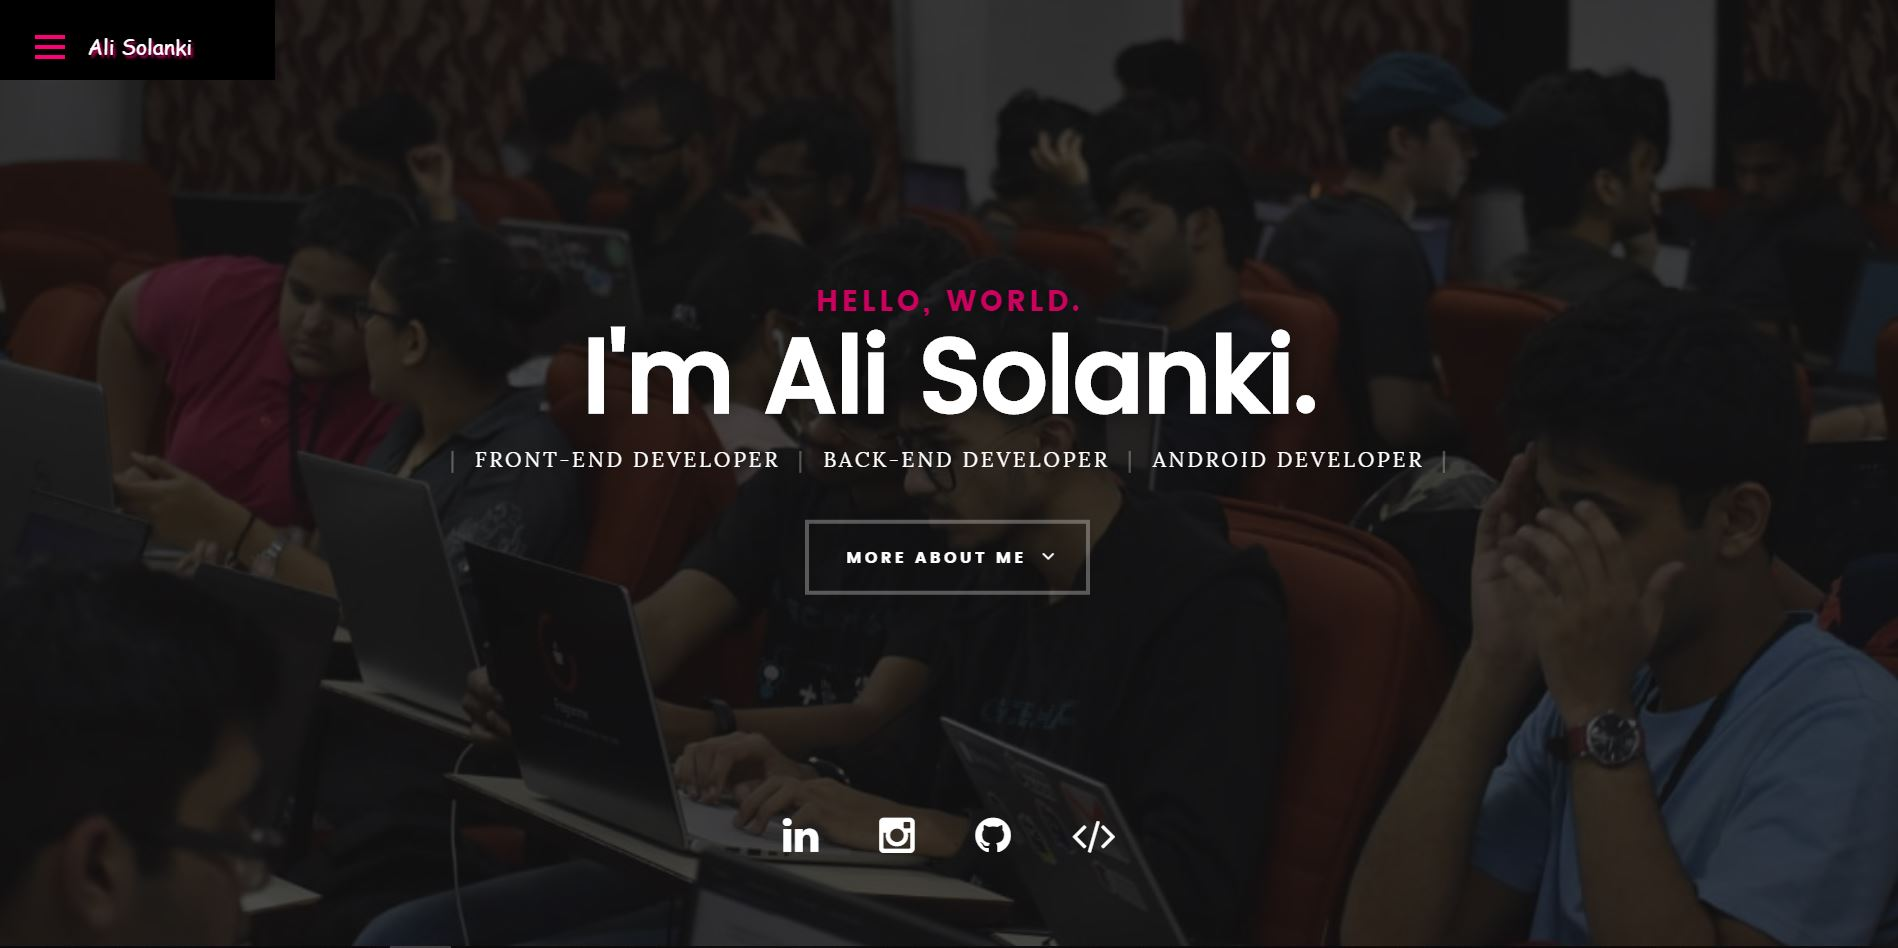
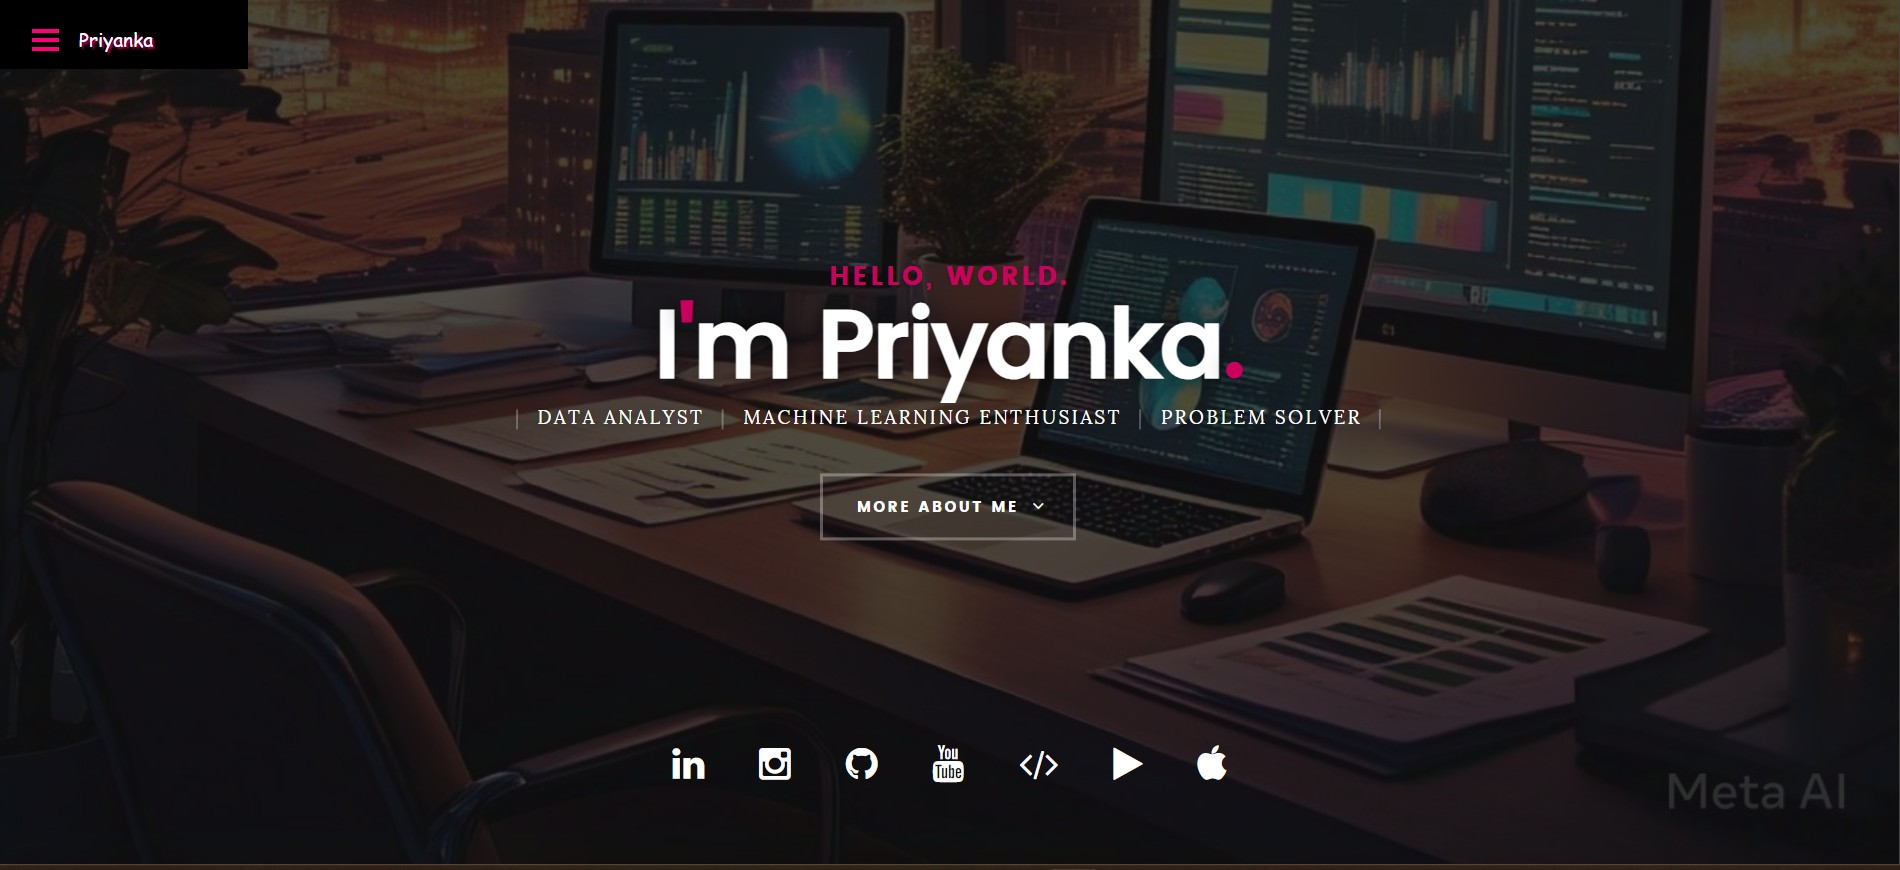
Your commit message

diff --git a/index.html b/index.html
@@ -121,11 +121,11 @@
     </div> <!-- /intro-content --> 
 
      <ul class="intro-social">
-         <li><a href="https://www.linkedin.com/in/priyanka-data-analyst/"><i class="fa fa-linkedin"></i></a></li>
-         <li><a href="https://www.instagram.com/priyanka_analytics"><i class="fa fa-instagram"></i></a></li>
-         <li><a href="https://github.com/priyanka-analytics"><i class="fa fa-github"></i></a></li>
+         <li><a href="https://https://www.linkedin.com/in/j-priyanka-735056305/"><i class="fa fa-linkedin"></i></a></li>
+         <li><a href="https://www.instagram.com/unicorn_unicstar"><i class="fa fa-instagram"></i></a></li>
+         <li><a href="https://github.com/Priyanka302002"><i class="fa fa-github"></i></a></li>
          <li><a href="https://www.youtube.com/channel/UCxyz1234"><i class="fa fa-youtube"></i></a></li>
-         <li><a href="https://www.kaggle.com/priyanka-analyst"><i class="fa fa-code"></i></a></li>
+         <li><a href="https://www.kaggle.com/priyajolingi"><i class="fa fa-code"></i></a></li>
          <li><a href="https://play.google.com/store/apps/developer?id=Priyanka"><i class="fa fa-play"></i></a></li>
      <li><a href="https://apps.apple.com/developer/priyanka/id123456789"><i class="fa fa-apple"></i></a></li>
      </ul> <!-- /intro-social -->      	
@@ -376,52 +376,59 @@
                 </div> <!-- /folio-item -->
 
                 <div class="bgrid folio-item">
-               <div class="item-wrap">
-                   <img src="images/portfolio/buttonpress.jpg" alt="Button Press">
-                   <a href="#modal-04" class="overlay">              		                  
-                     <div class="folio-item-table">
-                         <div class="folio-item-cell">
-                            <h3 class="folio-title">Button Press</h3>	     					    
-                            <span class="folio-types">
-                                Android App Development
-                            </span>		     		
-                        </div> 	                      	
-                     </div>                    
-                  </a>
-               </div>
+                    <div class="item-wrap">
+                        <img src="images/portfolio/hr_analitics_dashboard.png" alt="HR Analysis Dashboard">
+                        <a href="#modal-04" class="overlay">              
+                            <div class="folio-item-table">
+                                <div class="folio-item-cell">
+                                    <h3 class="folio-title">HR Analysis Dashboard</h3>					    
+                                    <span class="folio-types">
+                                        Data Analytics | Dashboard Development
+                                    </span>		     		
+                                </div> 	                      	
+                            </div>                    
+                        </a>
+                    </div>
                 </div> <!-- /folio-item -->
+                
 
+           
             <div class="bgrid folio-item">
-               <div class="item-wrap">
-                   <img src="images/portfolio/guestin.JPG"alt="GuestIn">
-                  <a href="#modal-03" class="overlay">             		                  
-                     <div class="folio-item-table">
-                         <div class="folio-item-cell">
-                            <h3 class="folio-title">GuestIn</h3>	     					    
-                            <span class="folio-types">
-                                Website Development
-                            </span>		     		
-                        </div> 	                      	
-                     </div>                    
-                  </a>
-               </div>
+                <div class="item-wrap">
+                    <img src="images/portfolio/pizza.png" alt="Pizza Sales Dashboard">
+                   <a href="#modal-03" class="overlay">                  	                 
+                      <div class="folio-item-table">
+                          <div class="folio-item-cell">
+                              <h3 class="folio-title">Pizza Sales Dashboard</h3>	     					    
+                             <span class="folio-types">
+                                 Data Visualization Project
+                             </span>		     		
+                         </div>  	                      	
+                      </div>                    
+                   </a>
+                </div>
+             </div> <!-- /folio-item -->
+
+
+
+
+             <div class="bgrid folio-item">
+                <div class="item-wrap">
+                    <img src="images/portfolio/sms_classification.png" alt="SMS Classifier"> <!-- Update with your image path -->
+                    <a href="#modal-02" class="overlay">                        
+                        <div class="folio-item-table">
+                            <div class="folio-item-cell">
+                                <h3 class="folio-title">SMS Classifier</h3>	     					    
+                                <span class="folio-types">
+                                    Machine Learning Project
+                                </span>		     		
+                            </div> 	                      	
+                        </div>                    
+                    </a>
+                </div>
             </div> <!-- /folio-item -->
-
-            <div class="bgrid folio-item">
-               <div class="item-wrap">
-                   <img src="images/portfolio/snakegame.jpg" alt="snakegame">
-                  <a href="#modal-02" class="overlay">                  	                 
-                     <div class="folio-item-table">
-                         <div class="folio-item-cell">
-                             <h3 class="folio-title">Snake Game</h3>	     					    
-                            <span class="folio-types">
-                                Java Game Development
-                            </span>		     		
-                        </div>  	                      	
-                     </div>                    
-                  </a>
-               </div>
-            </div> <!-- /folio-item -->     
+            
+                 
 
             <div class="bgrid folio-item">
                <div class="item-wrap">
@@ -467,11 +474,7 @@
                 <div class="description-box">
                     <h4>Fake News Detection</h4>      
                     <p>
-                        The **Fake News Detection** App utilizes **Machine Learning (ML)** and **Natural Language Processing (NLP)** techniques to identify fake news articles. The system analyzes news articles, transforms the text into a numerical format using vectorization (e.g., TF-IDF), and applies an ML algorithm (e.g., Logistic Regression) to predict whether the news article is fake or real.
-                    </p>
-                    <p>
-                        The model has been trained on a dataset consisting of news articles labeled as real or fake. The app uses the power of NLP to process and understand the content of articles and detect misleading or false information. This is particularly useful in the age of information overload and disinformation.
-                    </p>
+                        The Fake News Detection app uses Machine Learning (ML) and Natural Language Processing (NLP) to detect fake news. It converts text into numbers with TF-IDF and applies an ML model (e.g., Logistic Regression) to predict whether a news article is real or fake. The app is trained on a dataset of labeled articles to detect misinformation efficiently.
                     <div class="categories">Machine Learning | NLP | Text Classification</div>               
                 </div>
                 
@@ -484,20 +487,24 @@
 
             <div id="modal-06" class="popup-modal slider mfp-hide">
                 <div class="media">
-                    <img src="images/portfolio/modals/jobaura_website.png" alt="JobAura Job Portal Website" />
+                    <img src="images/portfolio/modals/jobaura_website.png" alt="Screenshot of JobAura Job Portal" />
                 </div>      
             
                 <div class="description-box">
-                    <h4>JobAura Job Portal</h4>      
-                    <p>JobAura Job Portal created using Django, HTML, CSS, and JavaScript for web development.</p>
-                    <div class="categories">Web Development | Django</div>               
+                    <h4>JobAura - Job Portal</h4>      
+                    <p>
+                        JobAura is a dynamic job portal built using <strong>Django</strong>, <strong>HTML</strong>, <strong>CSS</strong>, and <strong>JavaScript</strong>. 
+                        It provides a seamless platform for job seekers and employers to connect efficiently.
+                    </p>
+                    <div class="categories">Web Development | Django | Job Portal</div>               
                 </div>
             
                 <div class="link-box">
-                    <a href="https://jobaura.com" target="_blank">Visit</a>
+                    <a href="https://jobaura.com" target="_blank" rel="noopener noreferrer">Visit Website</a>
                     <a href="#" class="popup-modal-dismiss">Close</a>
                 </div>
             </div> <!-- /modal-06 -->
+            
             
 
             <div id="modal-05" class="popup-modal slider mfp-hide">	
@@ -521,71 +528,79 @@
             </div>
          <!-- /modal-05 -->
 
-    <div id="modal-04" class="popup-modal slider mfp-hide">	
+         <div id="modal-04" class="popup-modal slider mfp-hide">	
 
-                     <div class="media">
-                         <img src="images/portfolio/modals/m-buttonpress.jpg" alt="Button Press" />
-                     </div>      	
-
-                   <div class="description-box">
-                      <h4>Button Press</h4>		      
-                      <p>Android Application that helps generate Random numbers.</p>
-
-                      <div class="categories">Android App Development</div>			               
-                   </div>
-
-                 <div class="link-box">
-                    <a href="https://github.com/alisolanki/ButtonPress">Github</a>
-                      <a href="#" class="popup-modal-dismiss">Close</a>
-                 </div>		      
-
-            </div> <!-- /modal-04 -->
+            <div class="media">
+                <img src="images/portfolio/hr_analitics_dashboard.png" alt="HR Data Analytics Dashboard" />
+            </div>      	
+        
+            <div class="description-box">
+                <h4>HR Data Analytics</h4>		      
+                <p>
+                    <strong>HR Data Analytics Dashboard</strong> provides insights into employee performance, attrition rates, and workforce trends using **Power BI** and **data visualization techniques**.
+                </p>
+        
+                <div class="categories">Data Analysis | Power BI | HR Analytics</div>			               	
+            </div>
+        
+            <div class="link-box">
+                <a href="https://github.com/YOUR_GITHUB/HR-Data-Analytics">GitHub</a>
+                <a href="#" class="popup-modal-dismiss">Close</a>
+            </div>		  
+        
+        </div> <!-- /modal-04 -->
+        
 
             <div id="modal-03" class="popup-modal slider mfp-hide">	
 
-                     <div class="media">
-                         <img src="images/portfolio/modals/m-guestin.JPG" alt="GuestIn" />
-                     </div>      	
-
-                   <div class="description-box">
-                      <h4>GuestIn</h4>		      
-                      <p><strong>GuestIn</strong>, your one stop solution to get listed in the guestlist
-                        of any Club or Bar all over <strong>Mumbai</strong>.</p>
-
-                      <div class="categories">Website Design</div>			               
-                   </div>
-
-                 <div class="link-box">
-                    <a href="https://github.com/alisolanki/GuestIn">GitHub</a>
-                      <a href="#" class="popup-modal-dismiss">Close</a>
-                 </div>		      
-
+                <div class="media">
+                    <img src="images/portfolio/modals/pizza_sales_dashboard.png" alt="Pizza Sales Dashboard" />
+                </div>      	
+            
+                <div class="description-box">
+                    <h4>Pizza Sales Dashboard</h4>		      
+                    <p>
+                        <strong>Pizza Sales Dashboard</strong> is a **Power BI** project that provides key insights into pizza sales performance, 
+                        revenue trends, and customer preferences using interactive visualizations.
+                    </p>
+            
+                    <div class="categories">Data Analysis | Power BI | Business Intelligence</div>			               	
+                </div>
+            
+                <div class="link-box">
+                    <a href="https://github.com/YOUR_GITHUB/PizzaSalesDashboard">GitHub</a>
+                    <a href="#" class="popup-modal-dismiss">Close</a>
+                </div>		  
+            
             </div> <!-- /modal-03 -->
+            
 
             <div id="modal-02" class="popup-modal slider mfp-hide">	
 
-                     <div class="media">
-                         <img src="images/portfolio/modals/m-snakegame.JPG" alt="Snake Game" />
-                     </div>      	
-
-                   <div class="description-box">
-                      <h4>Snake Game</h4>		      
-                      <p>Classical Snake game on Java (one of my first Projects).</p>
-
-                      <div class="categories">Java Game Development</div>			               
-                   </div>
-
-                 <div class="link-box">
-                    <a href="https://github.com/alisolanki/Snake-Game">Github</a>
-                      <a href="#" class="popup-modal-dismiss">Close</a>
-                 </div>		      
-
+                <div class="media">
+                    <img src="images/portfolio/modals/sms_classification.png" alt="SMS Classifier" />
+                </div>      	
+            
+                <div class="description-box">
+                    <h4>SMS Classifier</h4>		      
+                    <p>A Machine Learning project that classifies SMS messages as Spam or Ham.</p>
+            
+                    <div class="categories">Machine Learning, NLP</div>			               
+            
+                </div>
+            
+                <div class="link-box">
+                    <a href="https://github.com/your-github-username/sms-classifier">GitHub</a>
+                    <a href="#" class="popup-modal-dismiss">Close</a>
+                </div>		      
+            
             </div> <!-- /modal-02 -->
+            
 
             <div id="modal-01" class="popup-modal slider mfp-hide">	
 
                      <div class="media">
-                         <img src="images/portfolio/modals/m-portfolio_website.JPG" alt="Portfolio" />
+                         <img src="images/portfolio/portfolio_website.JPG" alt="Portfolio" />
                      </div>      	
 
                    <div class="description-box">
@@ -702,7 +717,7 @@
        <div class="col-twelve">
         
 <!-- form -->
-<form name="form" id="contactForm" method="POST" action="https://formspree.io/f/mayaqvnv">
+<form name="form" id="contactForm" method="POST" action="https://formspree.io/f/mnnjdeon">
               <fieldset>
                 <div class="form-field">
              <input name="name" type="text" id="contactName" placeholder="Name" value="" minlength="2" required="">
@@ -754,8 +769,8 @@
            <h5>Where to find me</h5>
 
            <p>
-        Andheri West, Mumbai<br>
-        400058 India
+        Bhilai, Chhattisgarh<br>
+        490001  India
         </p>
 
        </div>
@@ -768,8 +783,8 @@
 
            <h5>Email Me At</h5>
 
-           <p>alisolanki123@gmail.com<br>
-           mohammed.solanki@somaiya.edu			     
+           <p>priyajolingi@gmail.com<br>
+            jp0629020@gmail.com			     
         </p>
 
        </div>
@@ -782,7 +797,7 @@
 
            <h5>Call Me At</h5>
 
-        <p>Phone: Telegram (<a href="https://t.me/alisolanki">alisolanki</a>)
+        <p>Phone: Telegram (<a href="https://t.me/alisolanki">priyanka</a>)
         </p>
        </div>
        
@@ -799,21 +814,19 @@
          <div class="col-six tab-full pull-right social">
 
             <ul class="footer-social">
-                <li><a href="https://www.linkedin.com/in/ali-solanki-2a1227192/"><i class="fa fa-linkedin"></i></a></li>
-                <li><a href="https://www.instagram.com/alisolankii"><i class="fa fa-instagram"></i></a></li>
-                <li><a href="https://github.com/alisolanki"><i class="fa fa-github"></i></a></li>
-                <li><a href="https://www.youtube.com/channel/UCgzz4Kd1YpzxJOkrhf5U_7A/"><i class="fa fa-youtube"></i></a></li>
-                <li><a href="https://www.codechef.com/users/alisolanki"><i class="fa fa-code"></i></a></li>
-                <li><a href="https://play.google.com/store/apps/dev?id=6991863212111988524"><i class="fa fa-play"></i></a></li>
-            <li><a href="https://apps.apple.com/gh/developer/ali-solanki/id1556898924"><i class="fa fa-apple"></i></a></li>
+                <li><a href="https://https://www.linkedin.com/in/j-priyanka-735056305/"><i class="fa fa-linkedin"></i></a></li>
+                <li><a href="https://www.instagram.com/unicorn_unicstar"><i class="fa fa-instagram"></i></a></li>
+                <li><a href="https://github.com/Priyanka302002"><i class="fa fa-github"></i></a></li>
+                <li><a href="https://www.codechef.com/users/grand_echo_68"><i class="fa fa-code"></i></a></li>
+                
             </ul> 
               
       </div>
 
       <div class="col-six tab-full">
           <div class="copyright">
-                <span>© Copyright 2021 </span> 
-                <span>Design by <a href="https://www.linkedin.com/in/ali-solanki-2a1227192/">Mohd. Ali Solanki</a></span>	         	
+                <span>© Copyright 2025 </span> 
+                <span>Design by <a href="https://www.linkedin.com/in/j-priyanka-735056305/"> J Priyanka</a></span>	         	
              </div>		                  
           </div>
 
@@ -833,13 +846,6 @@
 <script src="js/jquery-2.1.3.min.js"></script>
 <script src="js/plugins.js"></script>
 <script src="js/main.js"></script>
-
-
-
-
-
-
-
 
 
 </body>
